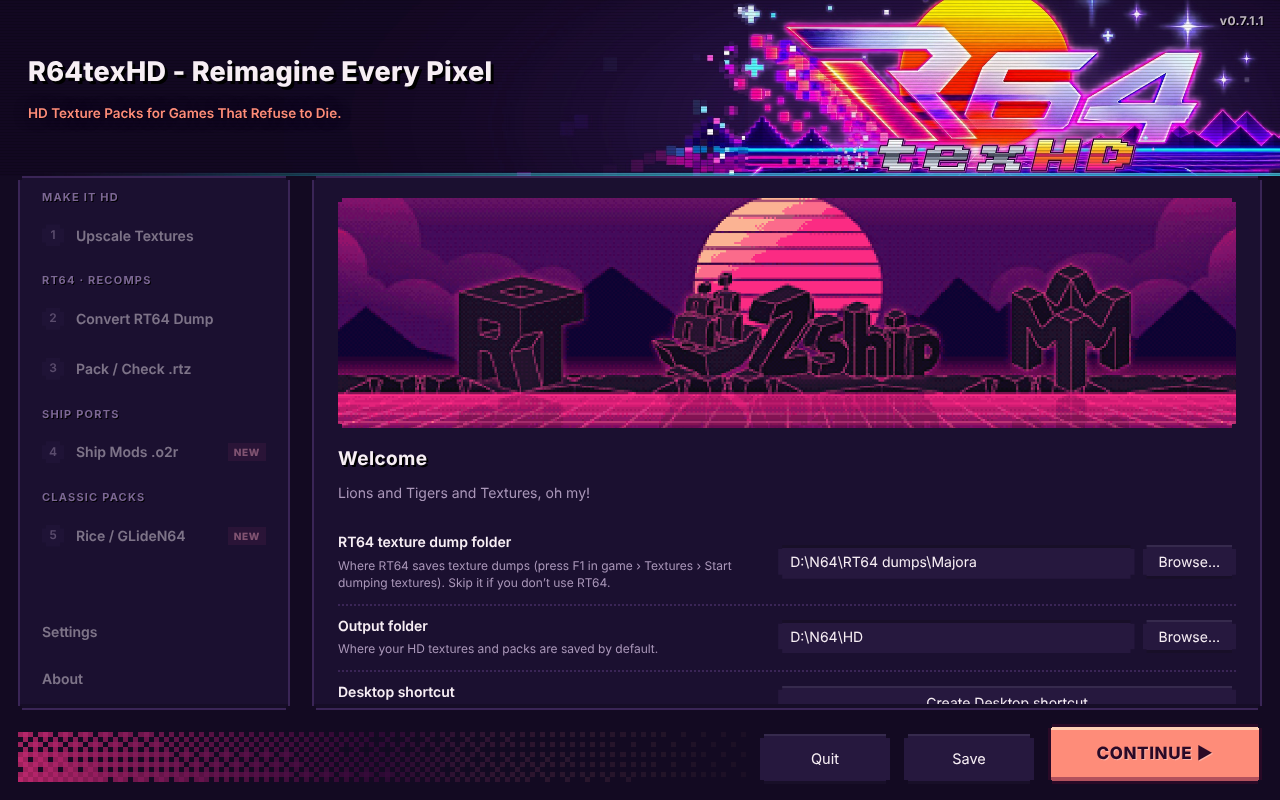
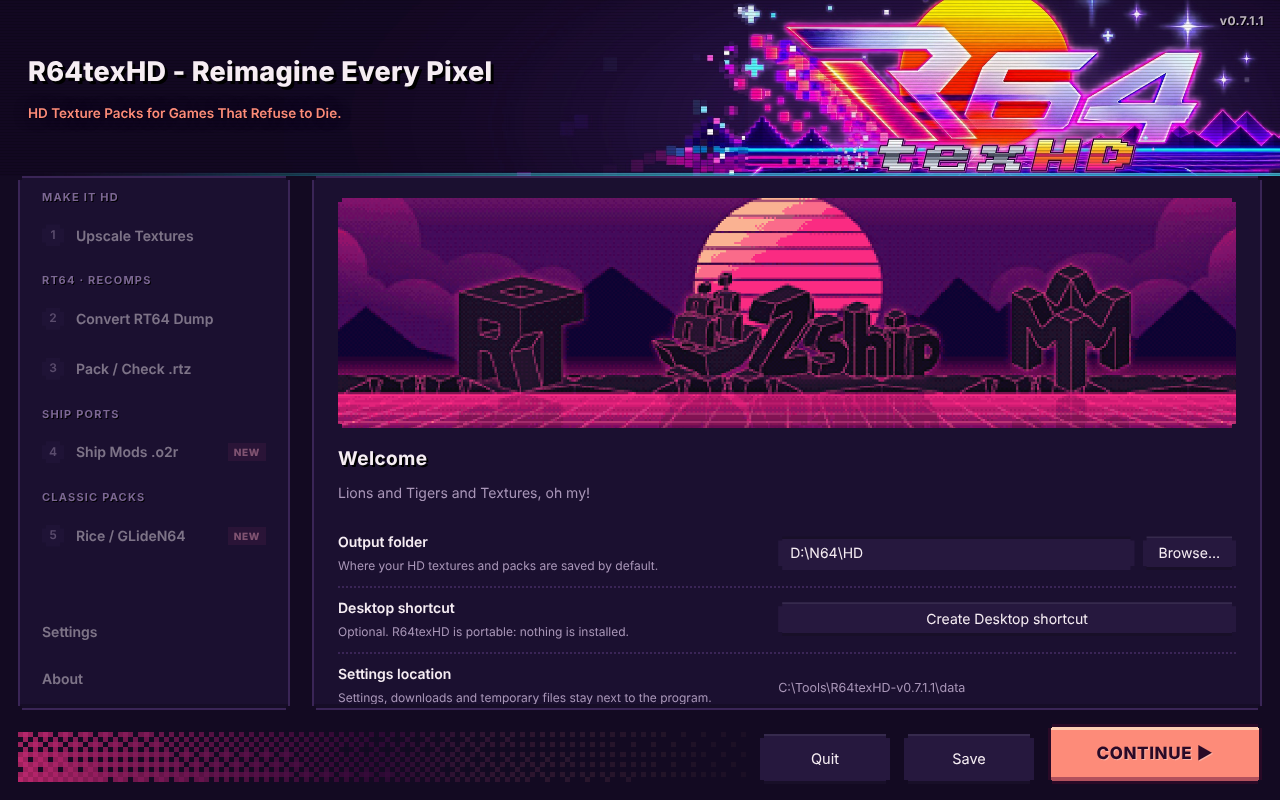
Welcome page: no RT64 dump folder row
The first-run page now asks only for the output folder (plus the optional
Desktop shortcut). The RT64 dump folder is chosen on 2 · Convert RT64
Dump. README, release readme and screenshots updated.

Claude-Session: https://claude.ai/code/session_01MGmgufkY67hNwJ4dKZUjyJ

diff --git a/app/ui/index.html b/app/ui/index.html
@@ -490,8 +490,6 @@ const pages = {
   setup() {
     return `<img class="welcome-art" src="welcome.png" alt="RT64, 2 Ship and Majora's Mask over a retro sunset">
       <h2>Welcome</h2><p class="lead">Lions and Tigers and Textures, oh my!</p>
-      ${row('RT64 texture dump folder', 'Where RT64 saves texture dumps (press F1 in game › Textures › Start dumping textures). Skip it if you don’t use RT64.',
-        pathField('dumpFolder', cfg.dumpFolder, [['folder', 'Browse…']], 'Optional'))}
       ${row('Output folder', 'Where your HD textures and packs are saved by default.',
         pathField('outputFolder', cfg.outputFolder, [['folder', 'Browse…']], 'Choose a folder'))}
       ${row('Desktop shortcut', 'Optional. R64texHD is portable: nothing is installed.', `<button class="btn" id="mk-shortcuts" style="width:100%">Create Desktop shortcut</button>`)}

diff --git a/README.md b/README.md
@@ -126,8 +126,8 @@ stay in a `data` folder next to `R64texHD.exe`, never in AppData.
 1. Download `R64texHD-v0.7.1.1-Windows.zip` from [Releases](../../releases).
 2. Unzip it anywhere you can write to. It unzips to a `R64texHD-v0.7.1.1` folder
    (for example `C:\Tools\R64texHD-v0.7.1.1`).
-3. Run **R64texHD.exe**. The first launch asks for your RT64 dump folder (optional)
-   and an output folder.
+3. Run **R64texHD.exe**. The first launch asks for an output folder (the RT64 dump
+   folder is chosen on 2 · Convert RT64 Dump).
 4. If the optional tools (texconv for BC7, Real-ESRGAN for AI upscaling) aren't
    downloaded yet, R64texHD opens on **Settings** so you can fetch them with one
    click, or choose **Not now**. The check can be turned off in Settings.
